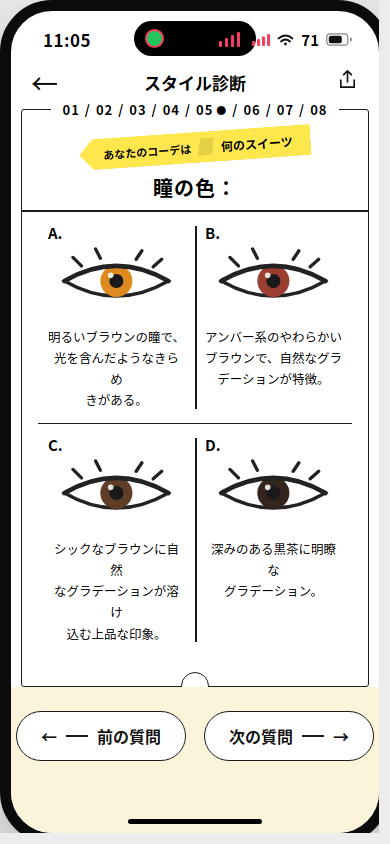
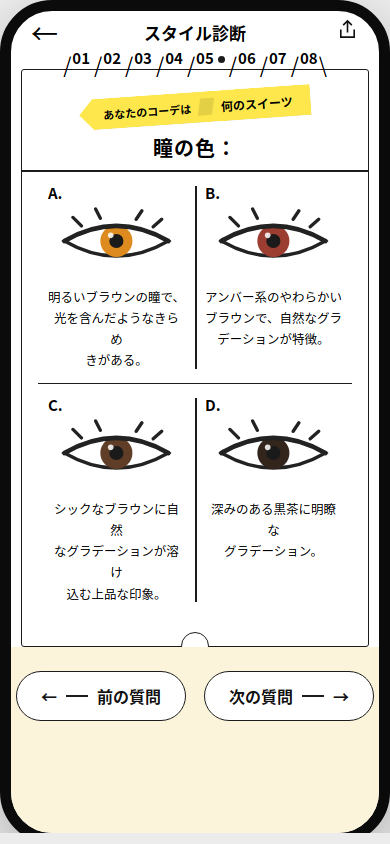
docs: 修正风格诊断视觉稿：去掉手机系统 UI，tab 改为 /NN 骑线样式

diff --git a/prototype/style-shindan/style-shindan-repro.html b/prototype/style-shindan/style-shindan-repro.html
@@ -24,12 +24,6 @@
     box-shadow:0 18px 50px rgba(0,0,0,.25);
   }
   /* ---------- status bar ---------- */
-  .statusbar { height:50px; position:relative; flex-shrink:0; }
-  .time { position:absolute; left:32px; top:16px; font-size:17px; font-weight:600; letter-spacing:.5px; }
-  .island {
-    position:absolute; left:50%; transform:translateX(-50%); top:10px;
-    width:122px; height:35px; background:#000; border-radius:19px;
-  }
   .island .badge {
     position:absolute; left:11px; top:8px; width:19px; height:19px; border-radius:50%;
     background:#22c55e; border:2px solid #f43f5e;
@@ -38,7 +32,6 @@
   .island .ibars i { width:3.5px; background:#f43f5e; border-radius:1px; display:block; }
   .island .ibars i:nth-child(1){height:6px} .island .ibars i:nth-child(2){height:9px}
   .island .ibars i:nth-child(3){height:12px} .island .ibars i:nth-child(4){height:15px}
-  .sicons { position:absolute; right:26px; top:18px; display:flex; align-items:center; gap:7px; }
   .sicons .pct { font-size:15px; font-weight:600; }
   /* ---------- nav ---------- */
   .navbar { height:42px; position:relative; display:flex; align-items:center; padding:0 20px; flex-shrink:0; }
@@ -46,12 +39,21 @@
   .ntitle { position:absolute; left:0; right:0; text-align:center; font-size:17px; font-weight:600; }
   .share { position:absolute; right:20px; top:50%; transform:translateY(-50%); }
   /* ---------- card ---------- */
+
+  /* 进度 tab：/NN 骑在卡片顶边框上，斜线居数字前，末尾反斜线，当前题带 ● */
+  .steps {
+    position:absolute; bottom:100%; left:0; right:0; margin-bottom:-1px;
+    display:flex; justify-content:center; align-items:flex-end; pointer-events:none;
+  }
+  .step { display:flex; align-items:flex-end; margin:0 1.5px; }
+  .step .sl { font-style:normal; font-size:21px; line-height:1; margin-bottom:-4px; }
+  .step .nm { font-style:normal; font-size:15px; font-weight:700; line-height:1; padding-bottom:6px; margin:0 1px; }
+  .step .dt { width:7px; height:7px; border-radius:50%; background:#1c1c1c; margin:0 1px 8px 3px; }
   .card {
-    margin:6px 10px 0; border:1.6px solid #1c1c1c; border-radius:3px;
+    margin:16px 10px 0; border:1.6px solid #1c1c1c; border-radius:3px;
     background:#fff; position:relative; padding:20px 16px 30px; flex-shrink:0;
   }
   .steps { position:absolute; top:-14px; left:0; right:0; text-align:center; }
-  .steps-in { display:inline-block; background:#fff; padding:0 12px; font-size:13px; font-weight:800; letter-spacing:1px; }
   .steps-in .sep { margin:0 5px; }
   .steps-in .dot { font-size:10px; margin-left:3px; }
   .ribbon-wrap { text-align:center; margin:2px 0 0; }
@@ -106,11 +108,7 @@
     width:27px; height:27px; border-radius:50%; background:#fde74c; color:#111;
     display:inline-flex; align-items:center; justify-content:center; font-size:16px; font-weight:800;
   }
-  .homebar {
-    position:absolute; bottom:9px; left:50%; transform:translateX(-50%);
-    width:134px; height:5px; background:#000; border-radius:3px;
-  }
-</style>
+  </style>
 </head>
 <body>
 <h1>スタイル診断 · UI 还原</h1>
@@ -118,22 +116,13 @@
 <div class="phones">
   <!-- ============ 05 瞳の色 ============ -->
   <div class="unit"><div class="phone">
-    <div class="statusbar">
-      <div class="time">11:05</div>
-      <div class="island"><span class="badge"></span><span class="ibars"><i></i><i></i><i></i><i></i></span></div>
-      <div class="sicons">
-        <svg width="18" height="12" viewBox="0 0 18 12"><g fill="#f43f5e"><rect x="0" y="7" width="3" height="5" rx="1"/><rect x="5" y="5" width="3" height="7" rx="1"/><rect x="10" y="2.5" width="3" height="9.5" rx="1"/><rect x="15" y="0" width="3" height="12" rx="1"/></g></svg>
-        <svg width="17" height="12" viewBox="0 0 17 12"><g fill="none" stroke="#111" stroke-width="1.8" stroke-linecap="round"><path d="M1.5 4.5 Q8.5 -1.5 15.5 4.5"/><path d="M4 7.5 Q8.5 3.5 13 7.5"/><circle cx="8.5" cy="10" r="1.4" fill="#111" stroke="none"/></g></svg>
-        <span class="pct">71</span>
-        <svg width="27" height="13" viewBox="0 0 27 13"><rect x="0.8" y="0.8" width="21" height="11.4" rx="3.5" fill="none" stroke="#111" stroke-width="1.2" opacity=".5"/><rect x="2.8" y="2.8" width="13" height="7.4" rx="2" fill="#111"/><path d="M24 4.5 v4 a2 2 0 0 0 0-4 z" fill="#111" opacity=".5"/></svg>
-      </div>
-    </div>
+    
     <div class="navbar">
       <span class="back">←</span><span class="ntitle">スタイル診断</span>
       <span class="share"><svg width="23" height="23" viewBox="0 0 24 24" fill="none" stroke="#111" stroke-width="1.7"><path d="M12 3v12M7.5 7.5 12 3l4.5 4.5"/><path d="M5 12v8h14v-8"/></svg></span>
     </div>
     <div class="card">
-      <div class="steps"><div class="steps-in"><span>01</span><span class="sep">/</span><span>02</span><span class="sep">/</span><span>03</span><span class="sep">/</span><span>04</span><span class="sep">/</span><span>05</span><span class="dot">●</span><span class="sep">/</span><span>06</span><span class="sep">/</span><span>07</span><span class="sep">/</span><span>08</span></div></div>
+      <div class="steps"><span class="step"><i class="sl">/</i><b class="nm">01</b></span><span class="step"><i class="sl">/</i><b class="nm">02</b></span><span class="step"><i class="sl">/</i><b class="nm">03</b></span><span class="step"><i class="sl">/</i><b class="nm">04</b></span><span class="step"><i class="sl">/</i><b class="nm">05</b><i class="dt"></i></span><span class="step"><i class="sl">/</i><b class="nm">06</b></span><span class="step"><i class="sl">/</i><b class="nm">07</b></span><span class="step"><i class="sl">/</i><b class="nm">08</b><i class="sl">\</i></span></div>
       <div class="ribbon-wrap"><div class="ribbon"><span class="r1">あなたのコーデは</span><span class="fold"></span><span class="r2">何のスイーツ</span></div></div>
       <div class="qtitle">瞳の色：</div>
       <div class="rule"></div>
@@ -158,28 +147,19 @@
         <span class="btn"><span>←</span><span class="ln"></span>前の質問</span>
         <span class="btn">次の質問<span class="ln"></span><span>→</span></span>
       </div>
-      <div class="homebar"></div>
+      
     </div>
   </div><div class="cap">05 · 瞳の色 <small>(2×2 网格)</small></div></div>
 
   <!-- ============ 08 肌色 ============ -->
   <div class="unit"><div class="phone">
-    <div class="statusbar">
-      <div class="time">11:19</div>
-      <div class="island"><span class="badge"></span><span class="ibars"><i></i><i></i><i></i><i></i></span></div>
-      <div class="sicons">
-        <svg width="18" height="12" viewBox="0 0 18 12"><g fill="#f43f5e"><rect x="0" y="7" width="3" height="5" rx="1"/><rect x="5" y="5" width="3" height="7" rx="1"/><rect x="10" y="2.5" width="3" height="9.5" rx="1"/><rect x="15" y="0" width="3" height="12" rx="1"/></g></svg>
-        <svg width="17" height="12" viewBox="0 0 17 12"><g fill="none" stroke="#111" stroke-width="1.8" stroke-linecap="round"><path d="M1.5 4.5 Q8.5 -1.5 15.5 4.5"/><path d="M4 7.5 Q8.5 3.5 13 7.5"/><circle cx="8.5" cy="10" r="1.4" fill="#111" stroke="none"/></g></svg>
-        <span class="pct">71</span>
-        <svg width="27" height="13" viewBox="0 0 27 13"><rect x="0.8" y="0.8" width="21" height="11.4" rx="3.5" fill="none" stroke="#111" stroke-width="1.2" opacity=".5"/><rect x="2.8" y="2.8" width="13" height="7.4" rx="2" fill="#111"/><path d="M24 4.5 v4 a2 2 0 0 0 0-4 z" fill="#111" opacity=".5"/></svg>
-      </div>
-    </div>
+    
     <div class="navbar">
       <span class="back">←</span><span class="ntitle">スタイル診断</span>
       <span class="share"><svg width="23" height="23" viewBox="0 0 24 24" fill="none" stroke="#111" stroke-width="1.7"><path d="M12 3v12M7.5 7.5 12 3l4.5 4.5"/><path d="M5 12v8h14v-8"/></svg></span>
     </div>
     <div class="card">
-      <div class="steps"><div class="steps-in"><span>01</span><span class="sep">/</span><span>02</span><span class="sep">/</span><span>03</span><span class="sep">/</span><span>04</span><span class="sep">/</span><span>05</span><span class="sep">/</span><span>06</span><span class="sep">/</span><span>07</span><span class="sep">/</span><span>08</span><span class="dot">●</span></div></div>
+      <div class="steps"><span class="step"><i class="sl">/</i><b class="nm">01</b></span><span class="step"><i class="sl">/</i><b class="nm">02</b></span><span class="step"><i class="sl">/</i><b class="nm">03</b></span><span class="step"><i class="sl">/</i><b class="nm">04</b></span><span class="step"><i class="sl">/</i><b class="nm">05</b></span><span class="step"><i class="sl">/</i><b class="nm">06</b></span><span class="step"><i class="sl">/</i><b class="nm">07</b></span><span class="step"><i class="sl">/</i><b class="nm">08</b><i class="dt"></i><i class="sl">\</i></span></div>
       <div class="ribbon-wrap"><div class="ribbon"><span class="r1">あなたのコーデは</span><span class="fold"></span><span class="r2">何のスイーツ</span></div></div>
       <div class="qtitle">自然光環境にある肌色：</div>
       <div class="rule"></div>
@@ -204,28 +184,19 @@
         <span class="btn"><span>←</span><span class="ln"></span>前の質問</span>
         <span class="btn submit"><span class="chk">✓</span>提出</span>
       </div>
-      <div class="homebar"></div>
+      
     </div>
   </div><div class="cap">08 · 自然光環境にある肌色 <small>(提交态)</small></div></div>
 
   <!-- ============ 01 手のひら ============ -->
   <div class="unit"><div class="phone">
-    <div class="statusbar">
-      <div class="time">11:19</div>
-      <div class="island"><span class="badge"></span><span class="ibars"><i></i><i></i><i></i><i></i></span></div>
-      <div class="sicons">
-        <svg width="18" height="12" viewBox="0 0 18 12"><g fill="#f43f5e"><rect x="0" y="7" width="3" height="5" rx="1"/><rect x="5" y="5" width="3" height="7" rx="1"/><rect x="10" y="2.5" width="3" height="9.5" rx="1"/><rect x="15" y="0" width="3" height="12" rx="1"/></g></svg>
-        <svg width="17" height="12" viewBox="0 0 17 12"><g fill="none" stroke="#111" stroke-width="1.8" stroke-linecap="round"><path d="M1.5 4.5 Q8.5 -1.5 15.5 4.5"/><path d="M4 7.5 Q8.5 3.5 13 7.5"/><circle cx="8.5" cy="10" r="1.4" fill="#111" stroke="none"/></g></svg>
-        <span class="pct">70</span>
-        <svg width="27" height="13" viewBox="0 0 27 13"><rect x="0.8" y="0.8" width="21" height="11.4" rx="3.5" fill="none" stroke="#111" stroke-width="1.2" opacity=".5"/><rect x="2.8" y="2.8" width="12" height="7.4" rx="2" fill="#111"/><path d="M24 4.5 v4 a2 2 0 0 0 0-4 z" fill="#111" opacity=".5"/></svg>
-      </div>
-    </div>
+    
     <div class="navbar">
       <span class="back">←</span><span class="ntitle">スタイル診断</span>
       <span class="share"><svg width="23" height="23" viewBox="0 0 24 24" fill="none" stroke="#111" stroke-width="1.7"><path d="M12 3v12M7.5 7.5 12 3l4.5 4.5"/><path d="M5 12v8h14v-8"/></svg></span>
     </div>
     <div class="card">
-      <div class="steps"><div class="steps-in"><span>01</span><span class="dot">●</span><span class="sep">/</span><span>02</span><span class="sep">/</span><span>03</span><span class="sep">/</span><span>04</span><span class="sep">/</span><span>05</span><span class="sep">/</span><span>06</span><span class="sep">/</span><span>07</span><span class="sep">/</span><span>08</span></div></div>
+      <div class="steps"><span class="step"><i class="sl">/</i><b class="nm">01</b><i class="dt"></i></span><span class="step"><i class="sl">/</i><b class="nm">02</b></span><span class="step"><i class="sl">/</i><b class="nm">03</b></span><span class="step"><i class="sl">/</i><b class="nm">04</b></span><span class="step"><i class="sl">/</i><b class="nm">05</b></span><span class="step"><i class="sl">/</i><b class="nm">06</b></span><span class="step"><i class="sl">/</i><b class="nm">07</b></span><span class="step"><i class="sl">/</i><b class="nm">08</b><i class="sl">\</i></span></div>
       <div class="ribbon-wrap"><div class="ribbon"><span class="r1">あなたのコーデは</span><span class="fold"></span><span class="r2">何のスイーツ</span></div></div>
       <div class="qtitle">手のひらの特徴：</div>
       <div class="rule"></div>
@@ -247,27 +218,18 @@
       <div class="btns">
         <span class="btn">次の質問<span class="ln"></span><span>→</span></span>
       </div>
-      <div class="homebar"></div>
+      
     </div>
   </div><div class="cap">01 · 手のひらの特徴 <small>(选中 C)</small></div></div>
   <!-- ============ 02 鎖骨 ============ -->
   <div class="unit"><div class="phone">
-    <div class="statusbar">
-      <div class="time">11:19</div>
-      <div class="island"><span class="badge"></span><span class="ibars"><i></i><i></i><i></i><i></i></span></div>
-      <div class="sicons">
-        <svg width="18" height="12" viewBox="0 0 18 12"><g fill="#f43f5e"><rect x="0" y="7" width="3" height="5" rx="1"/><rect x="5" y="5" width="3" height="7" rx="1"/><rect x="10" y="2.5" width="3" height="9.5" rx="1"/><rect x="15" y="0" width="3" height="12" rx="1"/></g></svg>
-        <svg width="17" height="12" viewBox="0 0 17 12"><g fill="none" stroke="#111" stroke-width="1.8" stroke-linecap="round"><path d="M1.5 4.5 Q8.5 -1.5 15.5 4.5"/><path d="M4 7.5 Q8.5 3.5 13 7.5"/><circle cx="8.5" cy="10" r="1.4" fill="#111" stroke="none"/></g></svg>
-        <span class="pct">70</span>
-        <svg width="27" height="13" viewBox="0 0 27 13"><rect x="0.8" y="0.8" width="21" height="11.4" rx="3.5" fill="none" stroke="#111" stroke-width="1.2" opacity=".5"/><rect x="2.8" y="2.8" width="12" height="7.4" rx="2" fill="#111"/><path d="M24 4.5 v4 a2 2 0 0 0 0-4 z" fill="#111" opacity=".5"/></svg>
-      </div>
-    </div>
+    
     <div class="navbar">
       <span class="back">←</span><span class="ntitle">スタイル診断</span>
       <span class="share"><svg width="23" height="23" viewBox="0 0 24 24" fill="none" stroke="#111" stroke-width="1.7"><path d="M12 3v12M7.5 7.5 12 3l4.5 4.5"/><path d="M5 12v8h14v-8"/></svg></span>
     </div>
     <div class="card">
-      <div class="steps"><div class="steps-in"><span>01</span><span class="sep">/</span><span>02</span><span class="dot">●</span><span class="sep">/</span><span>03</span><span class="sep">/</span><span>04</span><span class="sep">/</span><span>05</span><span class="sep">/</span><span>06</span><span class="sep">/</span><span>07</span><span class="sep">/</span><span>08</span></div></div>
+      <div class="steps"><span class="step"><i class="sl">/</i><b class="nm">01</b></span><span class="step"><i class="sl">/</i><b class="nm">02</b><i class="dt"></i></span><span class="step"><i class="sl">/</i><b class="nm">03</b></span><span class="step"><i class="sl">/</i><b class="nm">04</b></span><span class="step"><i class="sl">/</i><b class="nm">05</b></span><span class="step"><i class="sl">/</i><b class="nm">06</b></span><span class="step"><i class="sl">/</i><b class="nm">07</b></span><span class="step"><i class="sl">/</i><b class="nm">08</b><i class="sl">\</i></span></div>
       <div class="ribbon-wrap"><div class="ribbon"><span class="r1">あなたのコーデは</span><span class="fold"></span><span class="r2">何のスイーツ</span></div></div>
       <div class="qtitle">鎖骨と肩周りのライン：</div>
       <div class="rule"></div>
@@ -290,28 +252,19 @@
         <span class="btn"><span>←</span><span class="ln"></span>前の質問</span>
         <span class="btn">次の質問<span class="ln"></span><span>→</span></span>
       </div>
-      <div class="homebar"></div>
+      
     </div>
   </div><div class="cap">02 · 鎖骨と肩周りのライン <small>(选中 C)</small></div></div>
 
   <!-- ============ 03 ボディーライン ============ -->
   <div class="unit"><div class="phone">
-    <div class="statusbar">
-      <div class="time">11:19</div>
-      <div class="island"><span class="badge"></span><span class="ibars"><i></i><i></i><i></i><i></i></span></div>
-      <div class="sicons">
-        <svg width="18" height="12" viewBox="0 0 18 12"><g fill="#f43f5e"><rect x="0" y="7" width="3" height="5" rx="1"/><rect x="5" y="5" width="3" height="7" rx="1"/><rect x="10" y="2.5" width="3" height="9.5" rx="1"/><rect x="15" y="0" width="3" height="12" rx="1"/></g></svg>
-        <svg width="17" height="12" viewBox="0 0 17 12"><g fill="none" stroke="#111" stroke-width="1.8" stroke-linecap="round"><path d="M1.5 4.5 Q8.5 -1.5 15.5 4.5"/><path d="M4 7.5 Q8.5 3.5 13 7.5"/><circle cx="8.5" cy="10" r="1.4" fill="#111" stroke="none"/></g></svg>
-        <span class="pct">70</span>
-        <svg width="27" height="13" viewBox="0 0 27 13"><rect x="0.8" y="0.8" width="21" height="11.4" rx="3.5" fill="none" stroke="#111" stroke-width="1.2" opacity=".5"/><rect x="2.8" y="2.8" width="12" height="7.4" rx="2" fill="#111"/><path d="M24 4.5 v4 a2 2 0 0 0 0-4 z" fill="#111" opacity=".5"/></svg>
-      </div>
-    </div>
+    
     <div class="navbar">
       <span class="back">←</span><span class="ntitle">スタイル診断</span>
       <span class="share"><svg width="23" height="23" viewBox="0 0 24 24" fill="none" stroke="#111" stroke-width="1.7"><path d="M12 3v12M7.5 7.5 12 3l4.5 4.5"/><path d="M5 12v8h14v-8"/></svg></span>
     </div>
     <div class="card">
-      <div class="steps"><div class="steps-in"><span>01</span><span class="sep">/</span><span>02</span><span class="sep">/</span><span>03</span><span class="dot">●</span><span class="sep">/</span><span>04</span><span class="sep">/</span><span>05</span><span class="sep">/</span><span>06</span><span class="sep">/</span><span>07</span><span class="sep">/</span><span>08</span></div></div>
+      <div class="steps"><span class="step"><i class="sl">/</i><b class="nm">01</b></span><span class="step"><i class="sl">/</i><b class="nm">02</b></span><span class="step"><i class="sl">/</i><b class="nm">03</b><i class="dt"></i></span><span class="step"><i class="sl">/</i><b class="nm">04</b></span><span class="step"><i class="sl">/</i><b class="nm">05</b></span><span class="step"><i class="sl">/</i><b class="nm">06</b></span><span class="step"><i class="sl">/</i><b class="nm">07</b></span><span class="step"><i class="sl">/</i><b class="nm">08</b><i class="sl">\</i></span></div>
       <div class="ribbon-wrap"><div class="ribbon"><span class="r1">あなたのコーデは</span><span class="fold"></span><span class="r2">何のスイーツ</span></div></div>
       <div class="qtitle long">ボディーラインと体のバランス：</div>
       <div class="rule"></div>
@@ -334,28 +287,19 @@
         <span class="btn"><span>←</span><span class="ln"></span>前の質問</span>
         <span class="btn">次の質問<span class="ln"></span><span>→</span></span>
       </div>
-      <div class="homebar"></div>
+      
     </div>
   </div><div class="cap">03 · ボディーラインと体のバランス <small>(选中 C)</small></div></div>
 
   <!-- ============ 04 初印象 ============ -->
   <div class="unit"><div class="phone">
-    <div class="statusbar">
-      <div class="time">11:19</div>
-      <div class="island"><span class="badge"></span><span class="ibars"><i></i><i></i><i></i><i></i></span></div>
-      <div class="sicons">
-        <svg width="18" height="12" viewBox="0 0 18 12"><g fill="#f43f5e"><rect x="0" y="7" width="3" height="5" rx="1"/><rect x="5" y="5" width="3" height="7" rx="1"/><rect x="10" y="2.5" width="3" height="9.5" rx="1"/><rect x="15" y="0" width="3" height="12" rx="1"/></g></svg>
-        <svg width="17" height="12" viewBox="0 0 17 12"><g fill="none" stroke="#111" stroke-width="1.8" stroke-linecap="round"><path d="M1.5 4.5 Q8.5 -1.5 15.5 4.5"/><path d="M4 7.5 Q8.5 3.5 13 7.5"/><circle cx="8.5" cy="10" r="1.4" fill="#111" stroke="none"/></g></svg>
-        <span class="pct">70</span>
-        <svg width="27" height="13" viewBox="0 0 27 13"><rect x="0.8" y="0.8" width="21" height="11.4" rx="3.5" fill="none" stroke="#111" stroke-width="1.2" opacity=".5"/><rect x="2.8" y="2.8" width="12" height="7.4" rx="2" fill="#111"/><path d="M24 4.5 v4 a2 2 0 0 0 0-4 z" fill="#111" opacity=".5"/></svg>
-      </div>
-    </div>
+    
     <div class="navbar">
       <span class="back">←</span><span class="ntitle">スタイル診断</span>
       <span class="share"><svg width="23" height="23" viewBox="0 0 24 24" fill="none" stroke="#111" stroke-width="1.7"><path d="M12 3v12M7.5 7.5 12 3l4.5 4.5"/><path d="M5 12v8h14v-8"/></svg></span>
     </div>
     <div class="card">
-      <div class="steps"><div class="steps-in"><span>01</span><span class="sep">/</span><span>02</span><span class="sep">/</span><span>03</span><span class="sep">/</span><span>04</span><span class="dot">●</span><span class="sep">/</span><span>05</span><span class="sep">/</span><span>06</span><span class="sep">/</span><span>07</span><span class="sep">/</span><span>08</span></div></div>
+      <div class="steps"><span class="step"><i class="sl">/</i><b class="nm">01</b></span><span class="step"><i class="sl">/</i><b class="nm">02</b></span><span class="step"><i class="sl">/</i><b class="nm">03</b></span><span class="step"><i class="sl">/</i><b class="nm">04</b><i class="dt"></i></span><span class="step"><i class="sl">/</i><b class="nm">05</b></span><span class="step"><i class="sl">/</i><b class="nm">06</b></span><span class="step"><i class="sl">/</i><b class="nm">07</b></span><span class="step"><i class="sl">/</i><b class="nm">08</b><i class="sl">\</i></span></div>
       <div class="ribbon-wrap"><div class="ribbon"><span class="r1">あなたのコーデは</span><span class="fold"></span><span class="r2">何のスイーツ</span></div></div>
       <div class="qtitle">初印象（スタイル）：</div>
       <div class="rule"></div>
@@ -378,7 +322,7 @@
         <span class="btn"><span>←</span><span class="ln"></span>前の質問</span>
         <span class="btn">次の質問<span class="ln"></span><span>→</span></span>
       </div>
-      <div class="homebar"></div>
+      
     </div>
   </div><div class="cap">04 · 初印象（スタイル） <small>(选中 C)</small></div></div>
 
